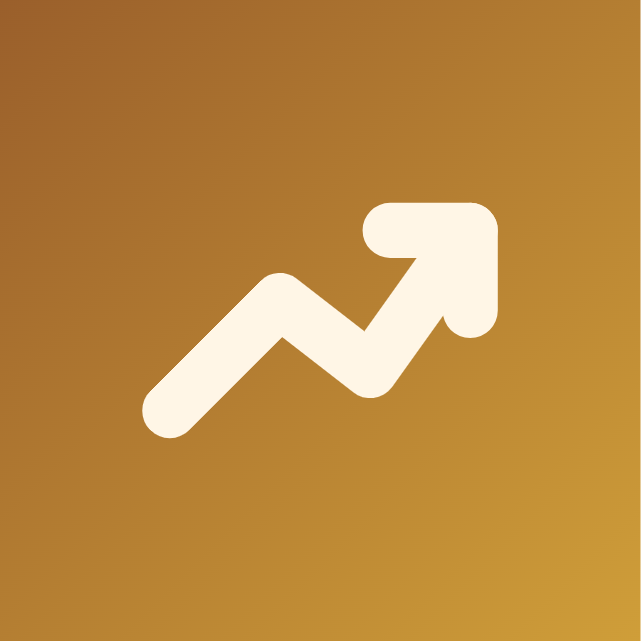
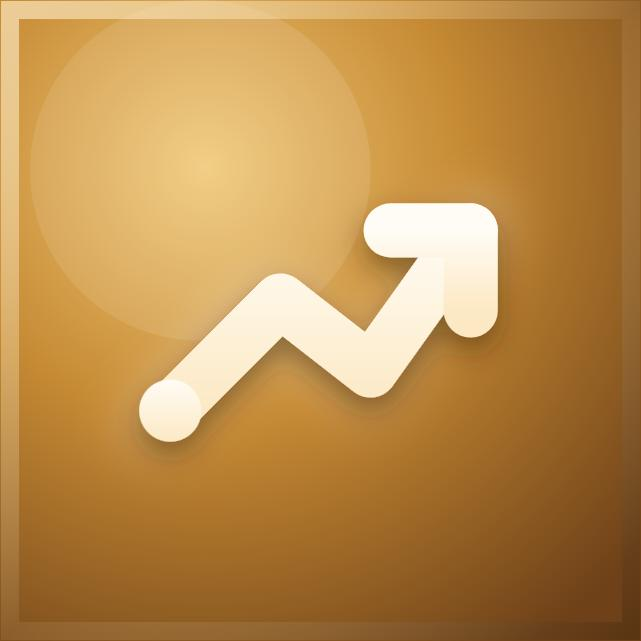
feat: icone e brandmark mais sofisticados (v3.18)
Rubens: "ta com cara de ia fraca" -- o icone anterior (v3.17) era um
traco chapado, sem profundidade. Refeito com:
- gradiente radial com brilho simulando luz (em vez de linear plano)
- traco com gradiente proprio (branco -> creme) + sombra suave por baixo
- ponto/bolinha no inicio da seta (efeito "moeda")
- borda fina dourada por dentro, sutil

Aplicado em favicon.svg, apple-touch-icon.png, icon-512.png e no
BrandMark (mesmo componente usado na abertura/login/Admin), pra manter
consistencia entre o icone da tela de inicio e a marca dentro do app.

Claude-Session: https://claude.ai/code/session_01CRAhVX1GsY2FuhgRZcdisv

diff --git a/src/App.jsx b/src/App.jsx
@@ -55,7 +55,7 @@ const STORAGE_KEY = "financas-casal-v3";
 const AUTH_KEY = "financas-casal-auth-v1";
 const SESSION_KEY = "financas-casal-session-v1";
 // Selo de versão: subir a cada melhoria/módulo (aparece na abertura, login e Admin).
-const APP_VERSION = "3.17";
+const APP_VERSION = "3.18";
 // Conta CRIADORA do app (dono): só ela vê Módulos, Supabase, estatísticas globais e backup.
 const CREATOR_EMAIL = "rubenspsilva.me@icloud.com";
 // URL de produção — pra onde o link de confirmação do e-mail deve voltar (não localhost).
@@ -927,14 +927,42 @@ function BrandMark({ size=48 }) {
   return (
     <svg width={size} height={size} viewBox="0 0 64 64" style={{display:"block"}} aria-label="Prosperidade">
       <defs>
-        <linearGradient id="brandg" x1="0" y1="0" x2="1" y2="1">
-          <stop offset="0" stopColor="#9A5F2B"/>
-          <stop offset="1" stopColor="#CF9E39"/>
+        <radialGradient id="brandbg" cx="32%" cy="26%" r="90%">
+          <stop offset="0%" stopColor="#F0C878"/>
+          <stop offset="45%" stopColor="#C68A34"/>
+          <stop offset="100%" stopColor="#6E4118"/>
+        </radialGradient>
+        <linearGradient id="brandring" x1="0" y1="0" x2="1" y2="1">
+          <stop offset="0" stopColor="#FFEFCB" stopOpacity="0.65"/>
+          <stop offset="0.5" stopColor="#FFEFCB" stopOpacity="0.08"/>
+          <stop offset="1" stopColor="#3A2208" stopOpacity="0.35"/>
         </linearGradient>
+        <linearGradient id="brandarrow" x1="0" y1="0" x2="0" y2="1">
+          <stop offset="0" stopColor="#FFFCF5"/>
+          <stop offset="1" stopColor="#FCE9C4"/>
+        </linearGradient>
+        <filter id="brandshadow" x="-50%" y="-50%" width="200%" height="200%">
+          <feDropShadow dx="0" dy="1.3" stdDeviation="1.4" floodColor="#3A2208" floodOpacity="0.5"/>
+        </filter>
+        <filter id="brandglow" x="-50%" y="-50%" width="200%" height="200%">
+          <feGaussianBlur stdDeviation="2.2" result="b"/>
+          <feColorMatrix in="b" type="matrix" values="0 0 0 0 1  0 0 0 0 0.94  0 0 0 0 0.8  0 0 0 0.5 0"/>
+        </filter>
+        <clipPath id="brandRounded"><rect width="64" height="64" rx="18"/></clipPath>
       </defs>
-      <rect width="64" height="64" rx="18" fill="url(#brandg)"/>
-      <path d="M17 41 L28 30 L37 37 L47 23" fill="none" stroke="#FFF6E6" strokeWidth="5.5" strokeLinecap="round" strokeLinejoin="round"/>
-      <path d="M39 23 L47 23 L47 31" fill="none" stroke="#FFF6E6" strokeWidth="5.5" strokeLinecap="round" strokeLinejoin="round"/>
+      <rect width="64" height="64" rx="18" fill="url(#brandbg)"/>
+      <g clipPath="url(#brandRounded)">
+        <circle cx="20" cy="17" r="17" fill="#FFFFFF" opacity="0.10"/>
+        <g filter="url(#brandglow)" opacity="0.55">
+          <path d="M15.5 42 L27 30.5 L36.5 38 L47.5 22.5" fill="none" stroke="#FFF3D6" strokeWidth="7" strokeLinecap="round" strokeLinejoin="round"/>
+        </g>
+        <g filter="url(#brandshadow)">
+          <path d="M17 41 L28 30 L37 37 L47 23" fill="none" stroke="url(#brandarrow)" strokeWidth="5.4" strokeLinecap="round" strokeLinejoin="round"/>
+          <path d="M39 23 L47 23 L47 31" fill="none" stroke="url(#brandarrow)" strokeWidth="5.4" strokeLinecap="round" strokeLinejoin="round"/>
+          <circle cx="17" cy="41" r="3.1" fill="url(#brandarrow)"/>
+        </g>
+      </g>
+      <rect x="1" y="1" width="62" height="62" rx="17" fill="none" stroke="url(#brandring)" strokeWidth="1.8"/>
     </svg>
   );
 }
